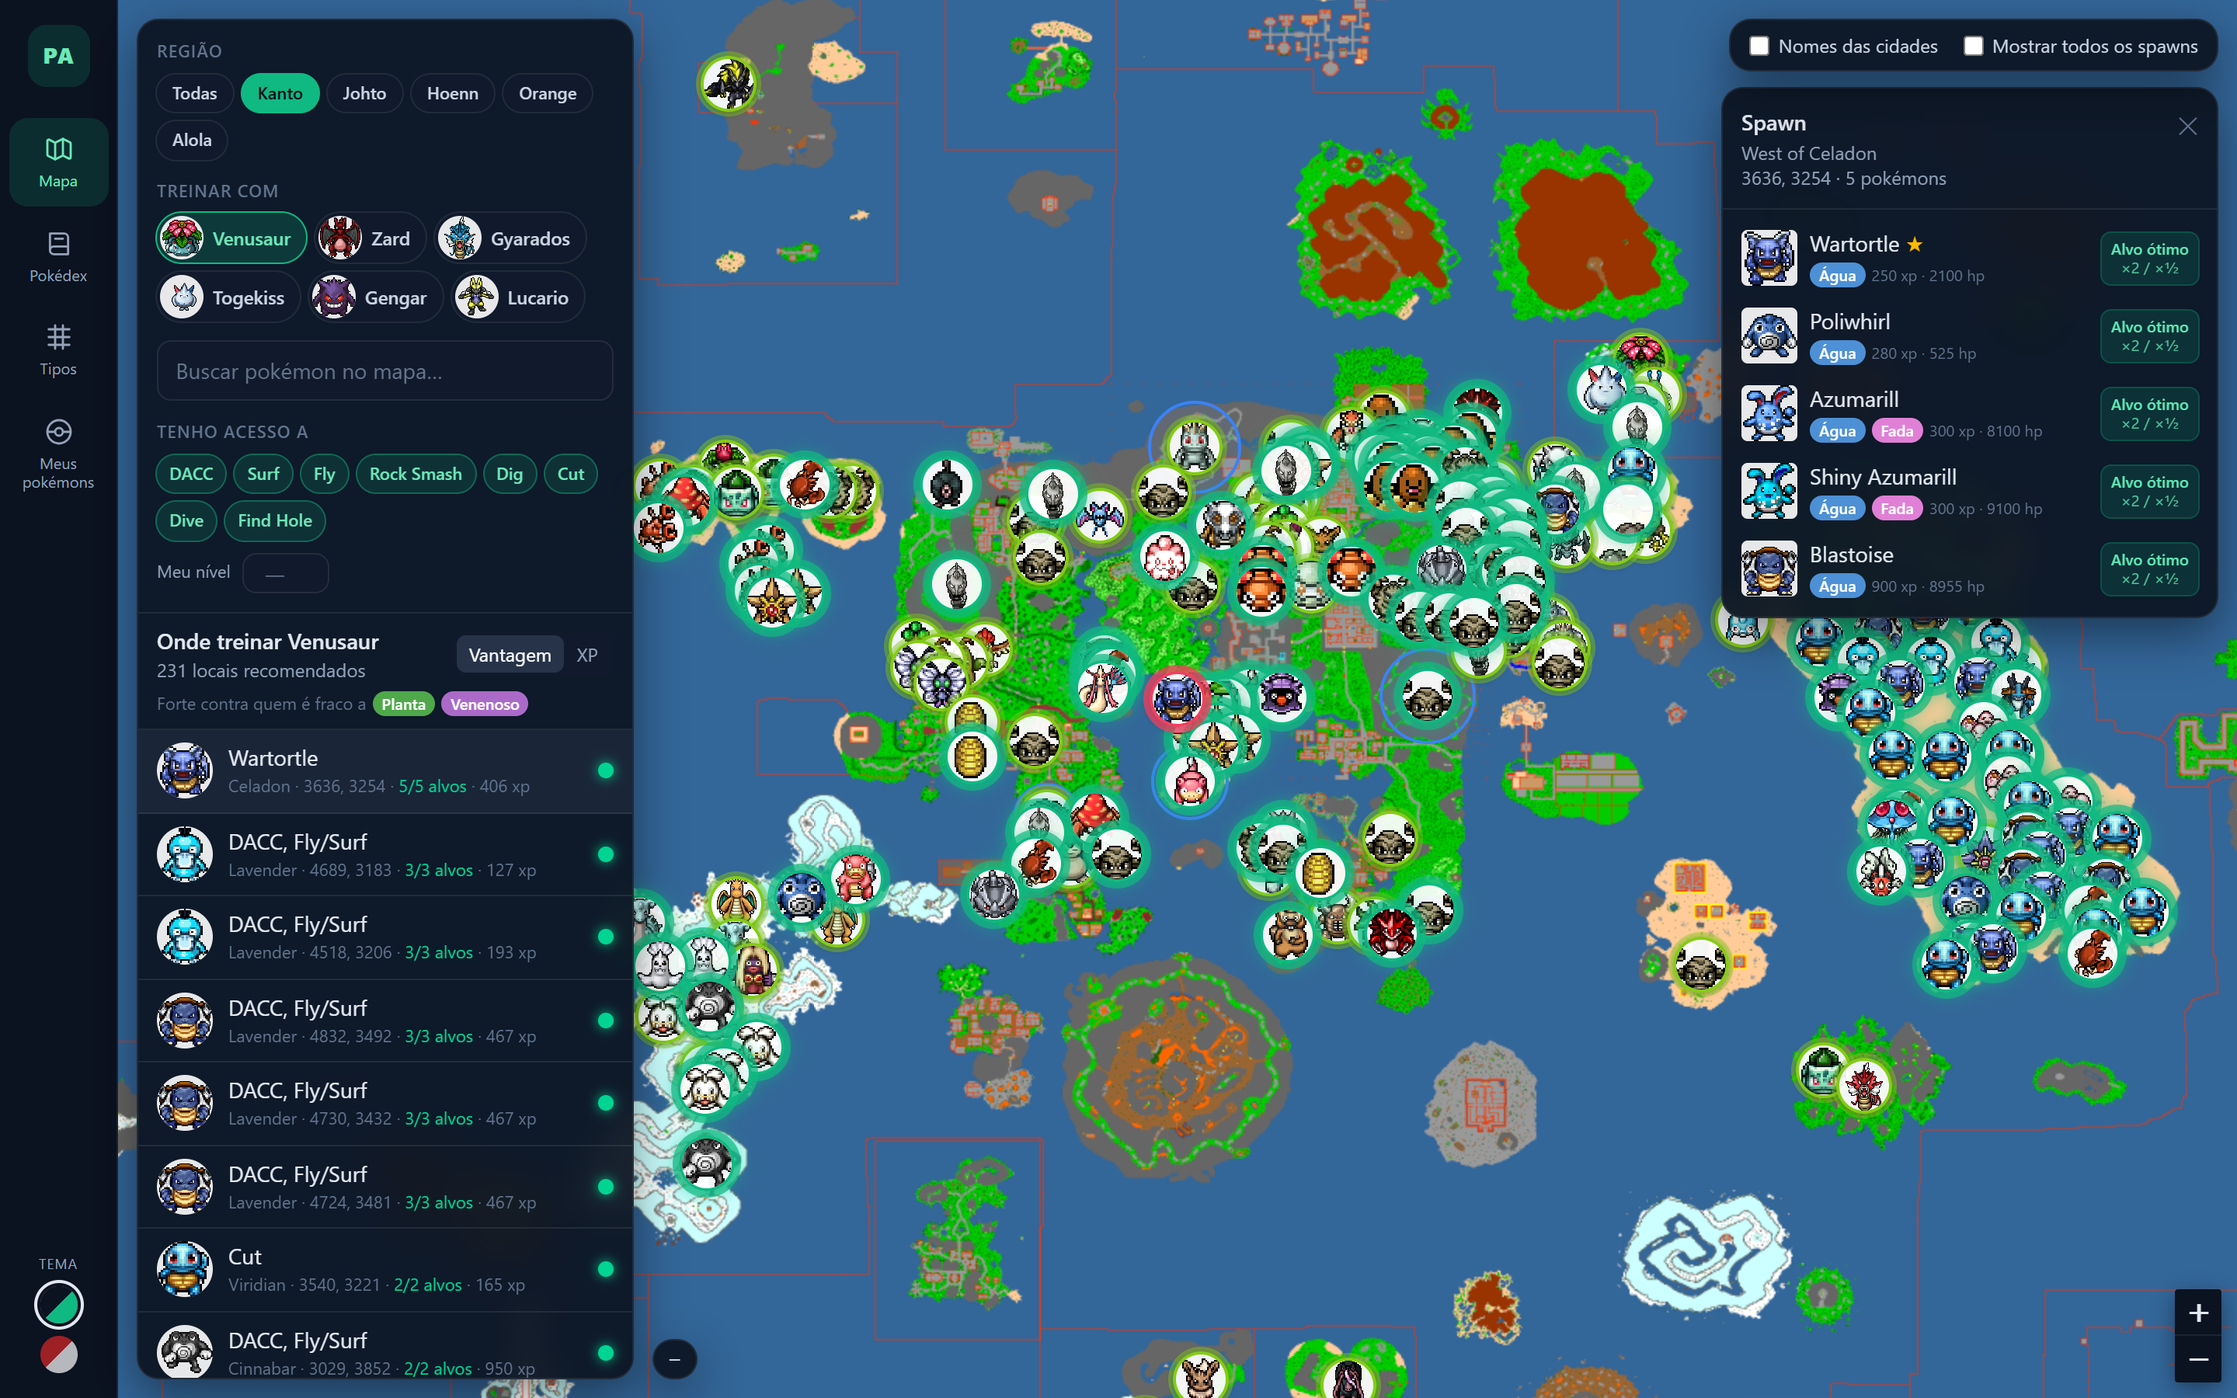
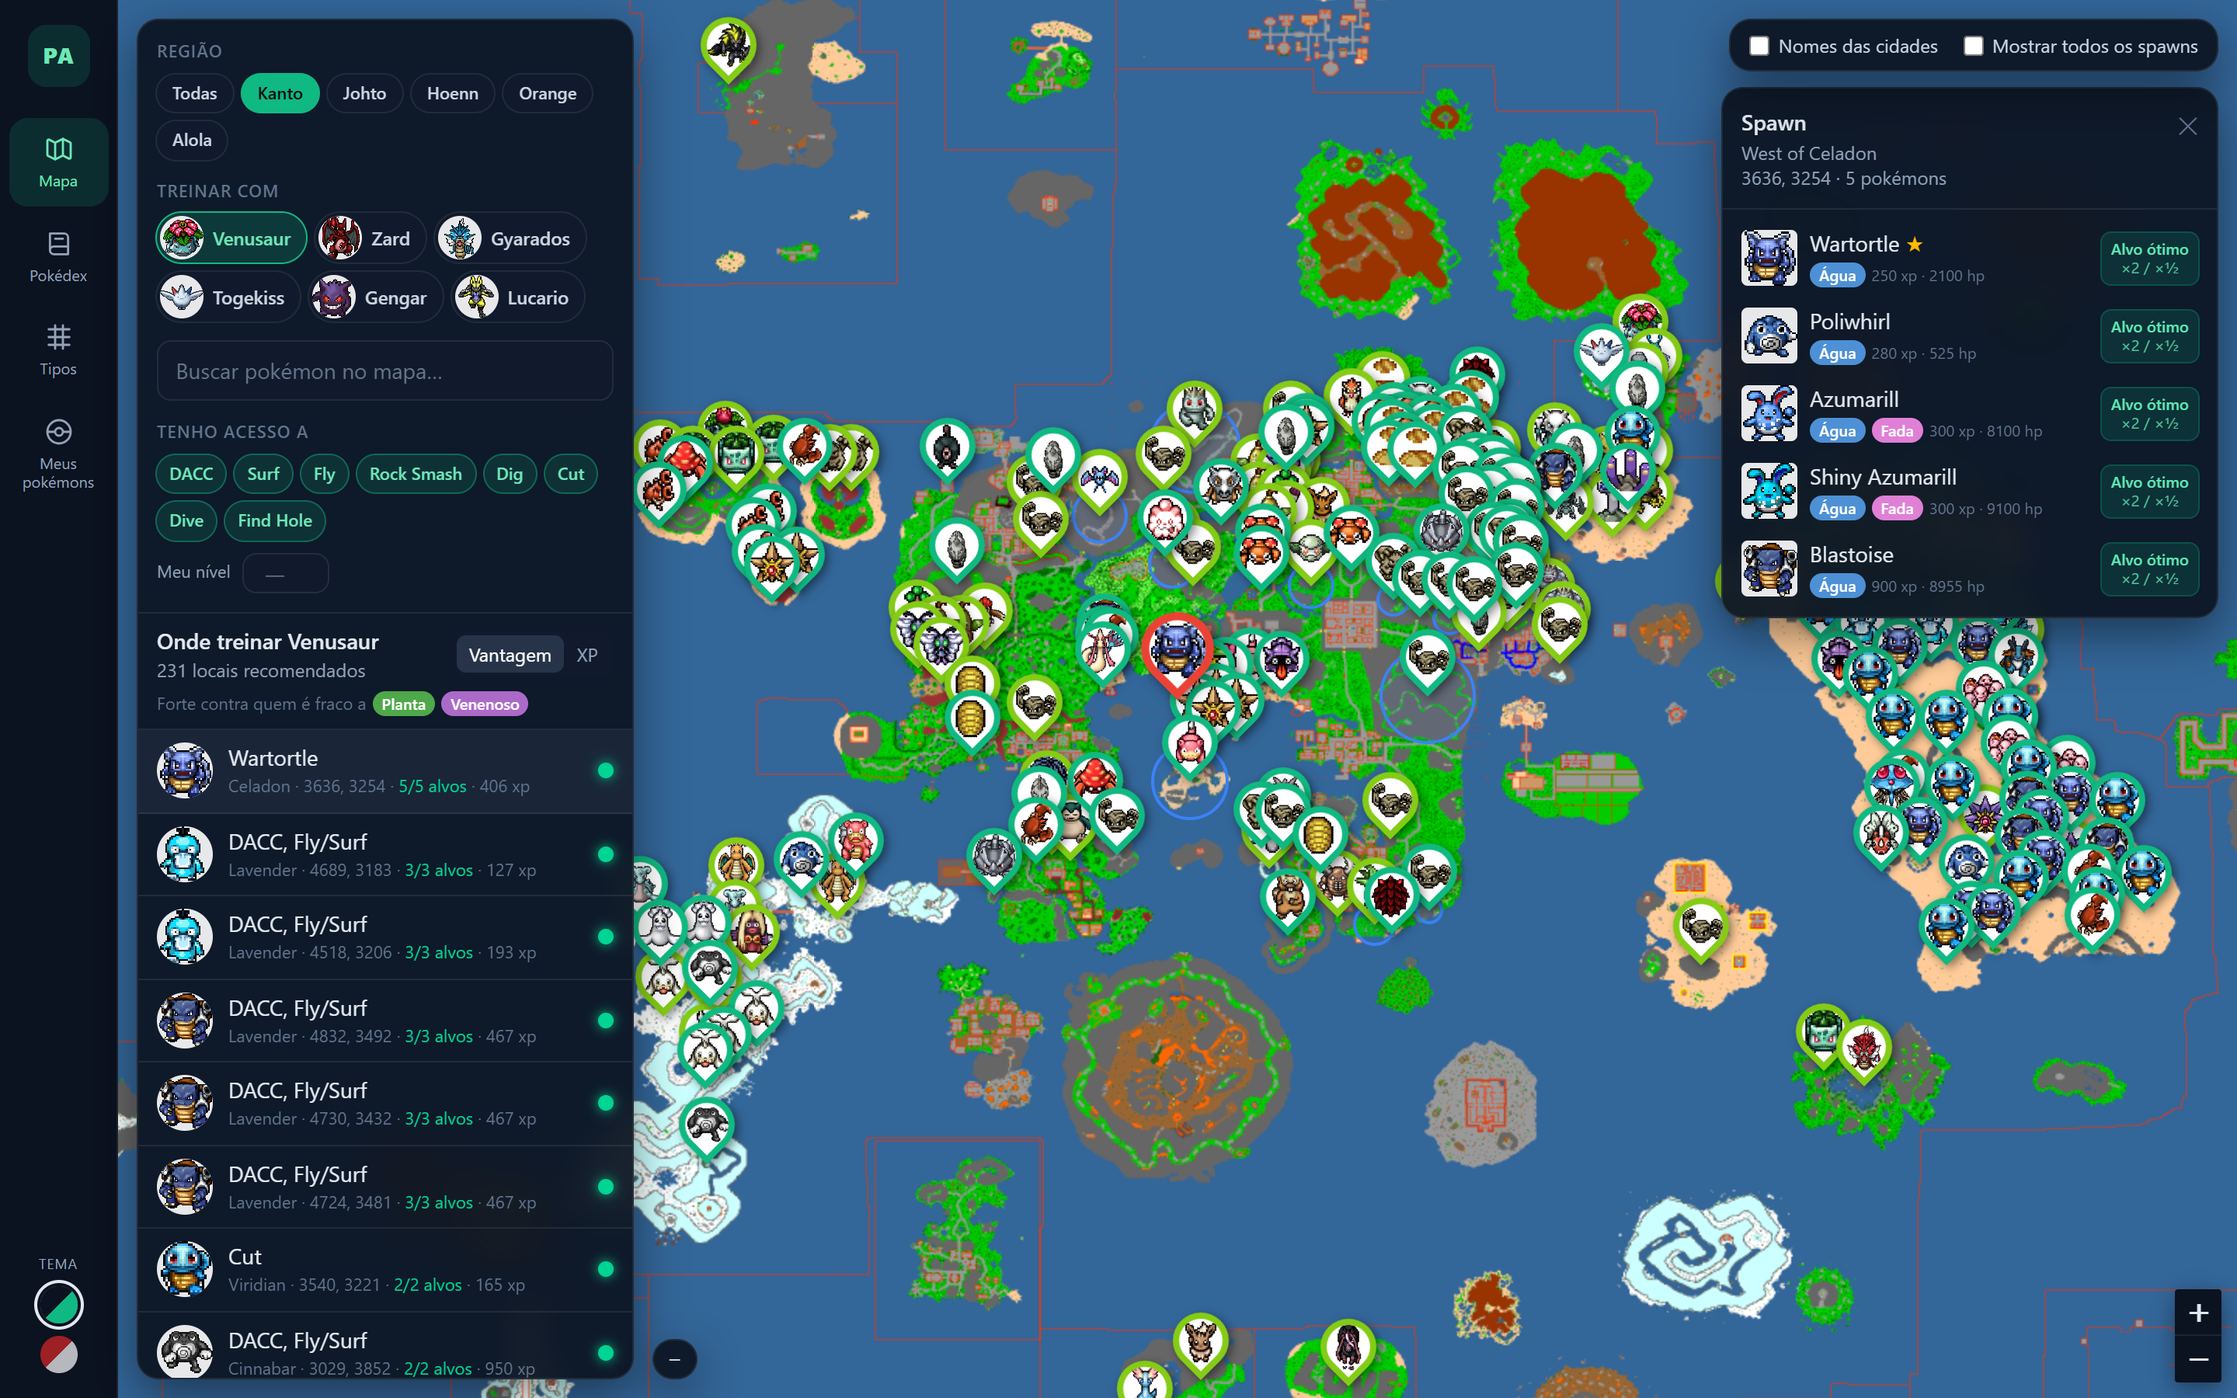
Alfinetes no mapa, time atual de 6 e filtro por tipo
- locais sinalizados (busca, treino e selecionado) viram alfinetes
- Meus pokemons: time atual com ate 6, usado em Treinar com no mapa
- Meus pokemons: filtro por tipo e por time atual
- README: capturas e texto atualizados

diff --git a/src/components/TeamView.vue b/src/components/TeamView.vue
@@ -1,6 +1,7 @@
 <script setup>
-import { ref } from 'vue'
-import { state, dex, sprite, addMember, removeMember, trainWith } from '../lib/store'
+import { ref, computed } from 'vue'
+import { state, dex, sprite, party, PARTY_MAX, addMember, removeMember, toggleParty, trainWith } from '../lib/store'
+import { TYPES, typeLabel, typeColor } from '../lib/types'
 import TypeBadge from './TypeBadge.vue'
 import PokemonPicker from './PokemonPicker.vue'
 
@@ -8,6 +9,23 @@ const picker = ref(null)
 const chosen = ref(null)
 const nick = ref('')
 const level = ref(1)
+const typeFilter = ref(null)
+const partyOnly = ref(false)
+
+const partyFull = computed(() => party.value.length >= PARTY_MAX)
+
+// só os tipos que existem entre os meus pokémons, com a contagem de cada um
+const myTypes = computed(() => {
+  const count = new Map()
+  for (const m of state.team) for (const t of dex.get(m.key).types) count.set(t, (count.get(t) || 0) + 1)
+  return TYPES.filter(t => count.has(t))
+    .sort((a, b) => typeLabel(a).localeCompare(typeLabel(b), 'pt'))
+    .map(t => ({ type: t, n: count.get(t) }))
+})
+
+const shown = computed(() => state.team.filter(m =>
+  (!typeFilter.value || dex.get(m.key).types.includes(typeFilter.value)) &&
+  (!partyOnly.value || m.party)))
 
 function add() {
   if (!chosen.value) return
@@ -23,11 +41,12 @@ function add() {
   <div class="h-full overflow-auto p-6">
     <h1 class="text-xl font-semibold">Meus pokémons</h1>
     <p class="mt-1 mb-5 text-sm text-slate-400">
-      Cadastre seus pokémons e clique em <b class="text-slate-200">Treinar</b> para ver no mapa os melhores locais para cada um.
+      Cadastre seus pokémons, marque os {{ PARTY_MAX }} que estão com você e clique em
+      <b class="text-slate-200">Treinar</b> para ver no mapa os melhores locais para cada um.
     </p>
 
     <!-- z-10: cada .panel cria um contexto de empilhamento; sem isso os cards cobrem a lista do seletor -->
-    <form class="panel relative z-10 mb-6 flex max-w-4xl flex-wrap items-end gap-3 p-4" @submit.prevent="add">
+    <form class="panel relative z-10 mb-5 flex max-w-4xl flex-wrap items-end gap-3 p-4" @submit.prevent="add">
       <label class="min-w-56 flex-1">
         <span class="mb-1 block text-xs text-slate-400">Pokémon</span>
         <PokemonPicker ref="picker" placeholder="Ex.: Venusaur" @select="chosen = $event" @clear="chosen = null" />
@@ -51,45 +70,108 @@ function add() {
       Você ainda não cadastrou nenhum pokémon.
     </div>
 
-    <div class="grid grid-cols-[repeat(auto-fill,minmax(17rem,1fr))] gap-4">
-      <article v-for="m in state.team" :key="m.uid" class="panel flex flex-col p-4">
-        <div class="flex items-center gap-3">
-          <img :src="sprite(dex.get(m.key))" class="pixel h-16 w-16 rounded-xl bg-white/90 object-contain" alt="" />
-          <div class="min-w-0 flex-1">
-            <div class="truncate font-semibold">{{ m.nick || dex.get(m.key).name }}</div>
-            <div v-if="m.nick" class="truncate text-xs text-slate-400">{{ dex.get(m.key).name }}</div>
-            <div class="mt-1 flex gap-1"><TypeBadge v-for="t in dex.get(m.key).types" :key="t" :type="t" small /></div>
-          </div>
-          <label class="text-center">
-            <span class="block text-[10px] uppercase tracking-wider text-slate-500">Nível</span>
-            <input v-model.number="m.level" type="number" min="1" max="999" class="field w-16 px-1 py-1 text-center" />
-          </label>
+    <template v-else>
+      <!-- time atual: os 6 que estão comigo -->
+      <section class="panel mb-5 max-w-4xl p-4">
+        <div class="mb-3 flex items-baseline gap-2">
+          <h2 class="text-sm font-semibold">Time atual</h2>
+          <span class="text-xs" :class="partyFull ? 'text-accent-fg' : 'text-slate-400'">{{ party.length }}/{{ PARTY_MAX }}</span>
+          <span class="ml-auto text-xs text-slate-500">São estes que aparecem em "Treinar com" no mapa.</span>
         </div>
-
-        <div class="mt-3 space-y-2 text-xs">
-          <div v-if="dex.get(m.key).weak.length">
-            <div class="mb-1 text-rose-300">Fraco a</div>
-            <div class="flex flex-wrap gap-1"><TypeBadge v-for="t in dex.get(m.key).weak" :key="t" :type="t" small /></div>
+        <div class="grid grid-cols-6 gap-2">
+          <div
+            v-for="i in PARTY_MAX"
+            :key="i"
+            class="flex h-24 flex-col items-center justify-center gap-1 rounded-xl text-center"
+            :class="party[i - 1] ? 'bg-ink-800 ring-1 ring-accent/40' : 'border border-dashed border-line'"
+          >
+            <template v-if="party[i - 1]">
+              <button class="cursor-pointer" title="Treinar com este" @click="trainWith(party[i - 1].uid)">
+                <img :src="sprite(dex.get(party[i - 1].key))" class="pixel h-12 w-12 rounded-full bg-white/90 object-contain" alt="" />
+              </button>
+              <span class="w-full truncate px-1 text-xs">{{ party[i - 1].nick || dex.get(party[i - 1].key).name }}</span>
+              <button class="text-[10px] text-slate-500 hover:text-rose-300 cursor-pointer" @click="toggleParty(party[i - 1].uid)">tirar do time</button>
+            </template>
+            <span v-else class="text-xs text-slate-600">vazio</span>
           </div>
-          <div v-if="dex.get(m.key).resist.length || dex.get(m.key).immune.length">
-            <div class="mb-1 text-emerald-300">Resiste / imune a</div>
-            <div class="flex flex-wrap gap-1">
-              <TypeBadge v-for="t in [...dex.get(m.key).resist, ...dex.get(m.key).immune]" :key="t" :type="t" small />
+        </div>
+      </section>
+
+      <!-- filtros -->
+      <div class="mb-4 flex flex-wrap items-center gap-1.5">
+        <span class="mr-1 text-sm text-slate-400">{{ shown.length }} de {{ state.team.length }}</span>
+        <button
+          class="rounded-full px-2.5 py-1 text-[11px] font-medium ring-1 transition cursor-pointer"
+          :class="partyOnly ? 'bg-accent text-on-accent ring-accent' : 'bg-ink-800 text-slate-300 ring-line hover:ring-strong/40'"
+          @click="partyOnly = !partyOnly"
+        >Só o time atual</button>
+        <button
+          v-for="t in myTypes"
+          :key="t.type"
+          class="rounded-full px-2.5 py-1 text-[11px] font-semibold text-white transition cursor-pointer"
+          :class="typeFilter && typeFilter !== t.type ? 'opacity-35 hover:opacity-70' : ''"
+          :style="{ background: typeColor(t.type) }"
+          @click="typeFilter = typeFilter === t.type ? null : t.type"
+        >{{ typeLabel(t.type) }} <span class="font-normal opacity-80">{{ t.n }}</span></button>
+      </div>
+
+      <div v-if="!shown.length" class="rounded-xl border border-dashed border-line p-8 text-center text-sm text-slate-500">
+        Nenhum dos seus pokémons passa nesses filtros.
+      </div>
+
+      <div class="grid grid-cols-[repeat(auto-fill,minmax(17rem,1fr))] gap-4">
+        <article
+          v-for="m in shown"
+          :key="m.uid"
+          class="panel flex flex-col p-4"
+          :class="m.party && 'border-accent/60!'"
+        >
+          <div class="flex items-center gap-3">
+            <img :src="sprite(dex.get(m.key))" class="pixel h-16 w-16 rounded-xl bg-white/90 object-contain" alt="" />
+            <div class="min-w-0 flex-1">
+              <div class="truncate font-semibold">{{ m.nick || dex.get(m.key).name }}</div>
+              <div v-if="m.nick" class="truncate text-xs text-slate-400">{{ dex.get(m.key).name }}</div>
+              <div class="mt-1 flex gap-1"><TypeBadge v-for="t in dex.get(m.key).types" :key="t" :type="t" small /></div>
+            </div>
+            <label class="text-center">
+              <span class="block text-[10px] uppercase tracking-wider text-slate-500">Nível</span>
+              <input v-model.number="m.level" type="number" min="1" max="999" class="field w-16 px-1 py-1 text-center" />
+            </label>
+          </div>
+
+          <div class="mt-3 space-y-2 text-xs">
+            <div v-if="dex.get(m.key).weak.length">
+              <div class="mb-1 text-rose-300">Fraco a</div>
+              <div class="flex flex-wrap gap-1"><TypeBadge v-for="t in dex.get(m.key).weak" :key="t" :type="t" small /></div>
+            </div>
+            <div v-if="dex.get(m.key).resist.length || dex.get(m.key).immune.length">
+              <div class="mb-1 text-emerald-300">Resiste / imune a</div>
+              <div class="flex flex-wrap gap-1">
+                <TypeBadge v-for="t in [...dex.get(m.key).resist, ...dex.get(m.key).immune]" :key="t" :type="t" small />
+              </div>
             </div>
           </div>
-        </div>
 
-        <div class="mt-auto flex gap-2 pt-4">
-          <button
-            class="flex-1 rounded-lg bg-accent/15 py-2 text-sm font-semibold text-accent-fg ring-1 ring-accent/40 transition hover:bg-accent/25 cursor-pointer"
-            @click="trainWith(m.uid)"
-          >Treinar</button>
-          <button
-            class="rounded-lg px-3 py-2 text-sm text-slate-400 ring-1 ring-line transition hover:text-rose-300 hover:ring-rose-400/40 cursor-pointer"
-            @click="removeMember(m.uid)"
-          >Remover</button>
-        </div>
-      </article>
-    </div>
+          <div class="mt-auto flex gap-2 pt-4">
+            <button
+              class="rounded-lg px-3 py-2 text-sm font-medium ring-1 transition enabled:cursor-pointer disabled:opacity-40"
+              :class="m.party ? 'bg-accent text-on-accent ring-accent' : 'text-slate-300 ring-line enabled:hover:ring-strong/40'"
+              :disabled="!m.party && partyFull"
+              :title="m.party ? 'Tirar do time atual' : partyFull ? `O time já tem ${PARTY_MAX}; tire um antes` : 'Colocar no time atual'"
+              @click="toggleParty(m.uid)"
+            >{{ m.party ? '✓ No time' : '+ Time' }}</button>
+            <button
+              class="flex-1 rounded-lg bg-accent/15 py-2 text-sm font-semibold text-accent-fg ring-1 ring-accent/40 transition hover:bg-accent/25 cursor-pointer"
+              @click="trainWith(m.uid)"
+            >Treinar</button>
+            <button
+              class="rounded-lg px-3 py-2 text-sm text-slate-400 ring-1 ring-line transition hover:text-rose-300 hover:ring-rose-400/40 cursor-pointer"
+              title="Remover dos meus pokémons"
+              @click="removeMember(m.uid)"
+            >✕</button>
+          </div>
+        </article>
+      </div>
+    </template>
   </div>
 </template>

diff --git a/src/style.css b/src/style.css
@@ -117,7 +117,28 @@ img { -webkit-user-drag: none; }
 }
 .mk img { width: 34px; height: 34px; object-fit: contain; image-rendering: pixelated; }
 .mk.mk-off { display: none; }
-.mk.mk-match > div { border-color: #f59e0b; box-shadow: 0 0 0 3px rgb(245 158 11 / 0.55), 0 1px 4px rgb(0 0 0 / 0.5); }
-.mk.mk-good > div { border-color: #84cc16; box-shadow: 0 0 0 3px rgb(132 204 22 / 0.45), 0 1px 4px rgb(0 0 0 / 0.5); }
-.mk.mk-great > div { border-color: #10b981; box-shadow: 0 0 0 4px rgb(16 185 129 / 0.7), 0 0 14px rgb(16 185 129 / 0.9); }
-.mk.mk-focus > div { border-color: #f43f5e; box-shadow: 0 0 0 4px rgb(244 63 94 / 0.75), 0 1px 6px rgb(0 0 0 / 0.5); }
+
+/* Locais sinalizados (busca, recomendação de treino ou selecionado) viram um alfinete:
+   o círculo ganha uma ponta (gota girada 45°) e sobe para a ponta tocar o ponto exato.
+   Metade da diagonal de 36px ≈ 25px é a distância do centro até a ponta. */
+.mk.mk-match > div, .mk.mk-good > div, .mk.mk-great > div, .mk.mk-focus > div {
+  --pin: #f59e0b;
+  --pin-scale: 1;
+  border: 4px solid var(--pin);
+  border-radius: 50% 50% 50% 0;
+  background: #fff;
+  box-shadow: none;
+  transform: translateY(calc(-25px * var(--pin-scale))) rotate(-45deg) scale(var(--pin-scale));
+  filter: drop-shadow(0 3px 3px rgb(0 0 0 / 0.45));
+  animation: pin-drop 0.28s cubic-bezier(0.2, 0.9, 0.3, 1.3) backwards;
+}
+.mk.mk-match img, .mk.mk-good img, .mk.mk-great img, .mk.mk-focus img {
+  width: 30px; height: 30px; transform: rotate(45deg);
+}
+.mk.mk-good > div { --pin: #84cc16; }
+.mk.mk-great > div { --pin: #10b981; }
+/* selecionado: vermelho e maior, como o alfinete clássico de mapa (vem por último para vencer a cor do nível) */
+.mk.mk-focus > div { --pin: #ea4335; --pin-scale: 1.3; }
+@keyframes pin-drop {
+  from { transform: translateY(-70px) rotate(-45deg) scale(var(--pin-scale)); opacity: 0; }
+}

diff --git a/src/lib/store.js b/src/lib/store.js
@@ -37,7 +37,7 @@ export const state = reactive({
   meta: null,
   nodes: [],
   pokedex: [],
-  team: [], // { uid, key, nick, level }
+  team: [], // { uid, key, nick, level, party } — party: está no time atual (máx. PARTY_MAX)
   activeUid: null, // pokémon do time escolhido para treinar
   searched: null, // pokémon buscado no mapa (ficha da pokédex)
   theme: loadTheme(),
@@ -53,6 +53,20 @@ watch(() => state.theme, id => {
 export const dex = new Map()
 
 export const sprite = mon => (mon?.img ? `sprites/${mon.img}` : '')
+
+// Só dá para andar com 6 pokémons; "party" são os que estão comigo agora.
+export const PARTY_MAX = 6
+export const party = computed(() => state.team.filter(m => m.party))
+// opções de "Treinar com" no mapa: o time atual (e quem estiver em treino); sem time marcado, todos
+export const trainChoices = computed(() =>
+  party.value.length ? state.team.filter(m => m.party || m.uid === state.activeUid) : state.team)
+
+export function toggleParty(uid) {
+  const member = state.team.find(m => m.uid === uid)
+  if (!member) return
+  if (member.party) member.party = false
+  else if (party.value.length < PARTY_MAX) member.party = true
+}
 
 export const trainer = computed(() => {
   const member = state.team.find(m => m.uid === state.activeUid)

diff --git a/src/components/MapView.vue b/src/components/MapView.vue
@@ -1,7 +1,7 @@
 <script setup>
 import { ref, computed, watch, onMounted, onBeforeUnmount, nextTick } from 'vue'
 import L from 'leaflet'
-import { state, dex, sprite, trainer } from '../lib/store'
+import { state, dex, sprite, trainer, trainChoices } from '../lib/store'
 import { matchup, rankNodes, VERDICTS } from '../lib/advisor'
 import { SKILLS, isBlocked } from '../lib/reqs'
 import { REGIONS } from '../lib/regions'
@@ -238,7 +238,7 @@ watch(() => state.view, v => { if (v === 'map') nextTick(() => map.invalidateSiz
           </div>
           <div v-else class="flex flex-wrap gap-1.5">
             <button
-              v-for="m in state.team"
+              v-for="m in trainChoices"
               :key="m.uid"
               class="flex items-center gap-1.5 rounded-full py-0.5 pl-0.5 pr-2.5 text-xs font-medium ring-1 transition cursor-pointer"
               :class="state.activeUid === m.uid

diff --git a/README.md b/README.md
@@ -32,9 +32,9 @@ Uma linha por tipo, com o que ele vence e o que o vence. Passar o mouse mostra t
 
 ### Meus pokémons
 
-Cadastro do seu time com apelido e nível, salvo localmente. O botão Treinar leva direto ao mapa com as recomendações.
+Cadastro de todos os seus pokémons com apelido e nível, salvo localmente. Marque os 6 que estão com você (time atual) para que só eles apareçam em "Treinar com" no mapa, e filtre a lista por tipo. O botão Treinar leva direto ao mapa com as recomendações.
 
-![Tela Meus pokémons com seis pokémons cadastrados](docs/screenshots/meus-pokemons.png)
+![Tela Meus pokémons com o time atual de seis e os filtros por tipo](docs/screenshots/meus-pokemons.png)
 
 ### Temas
 
